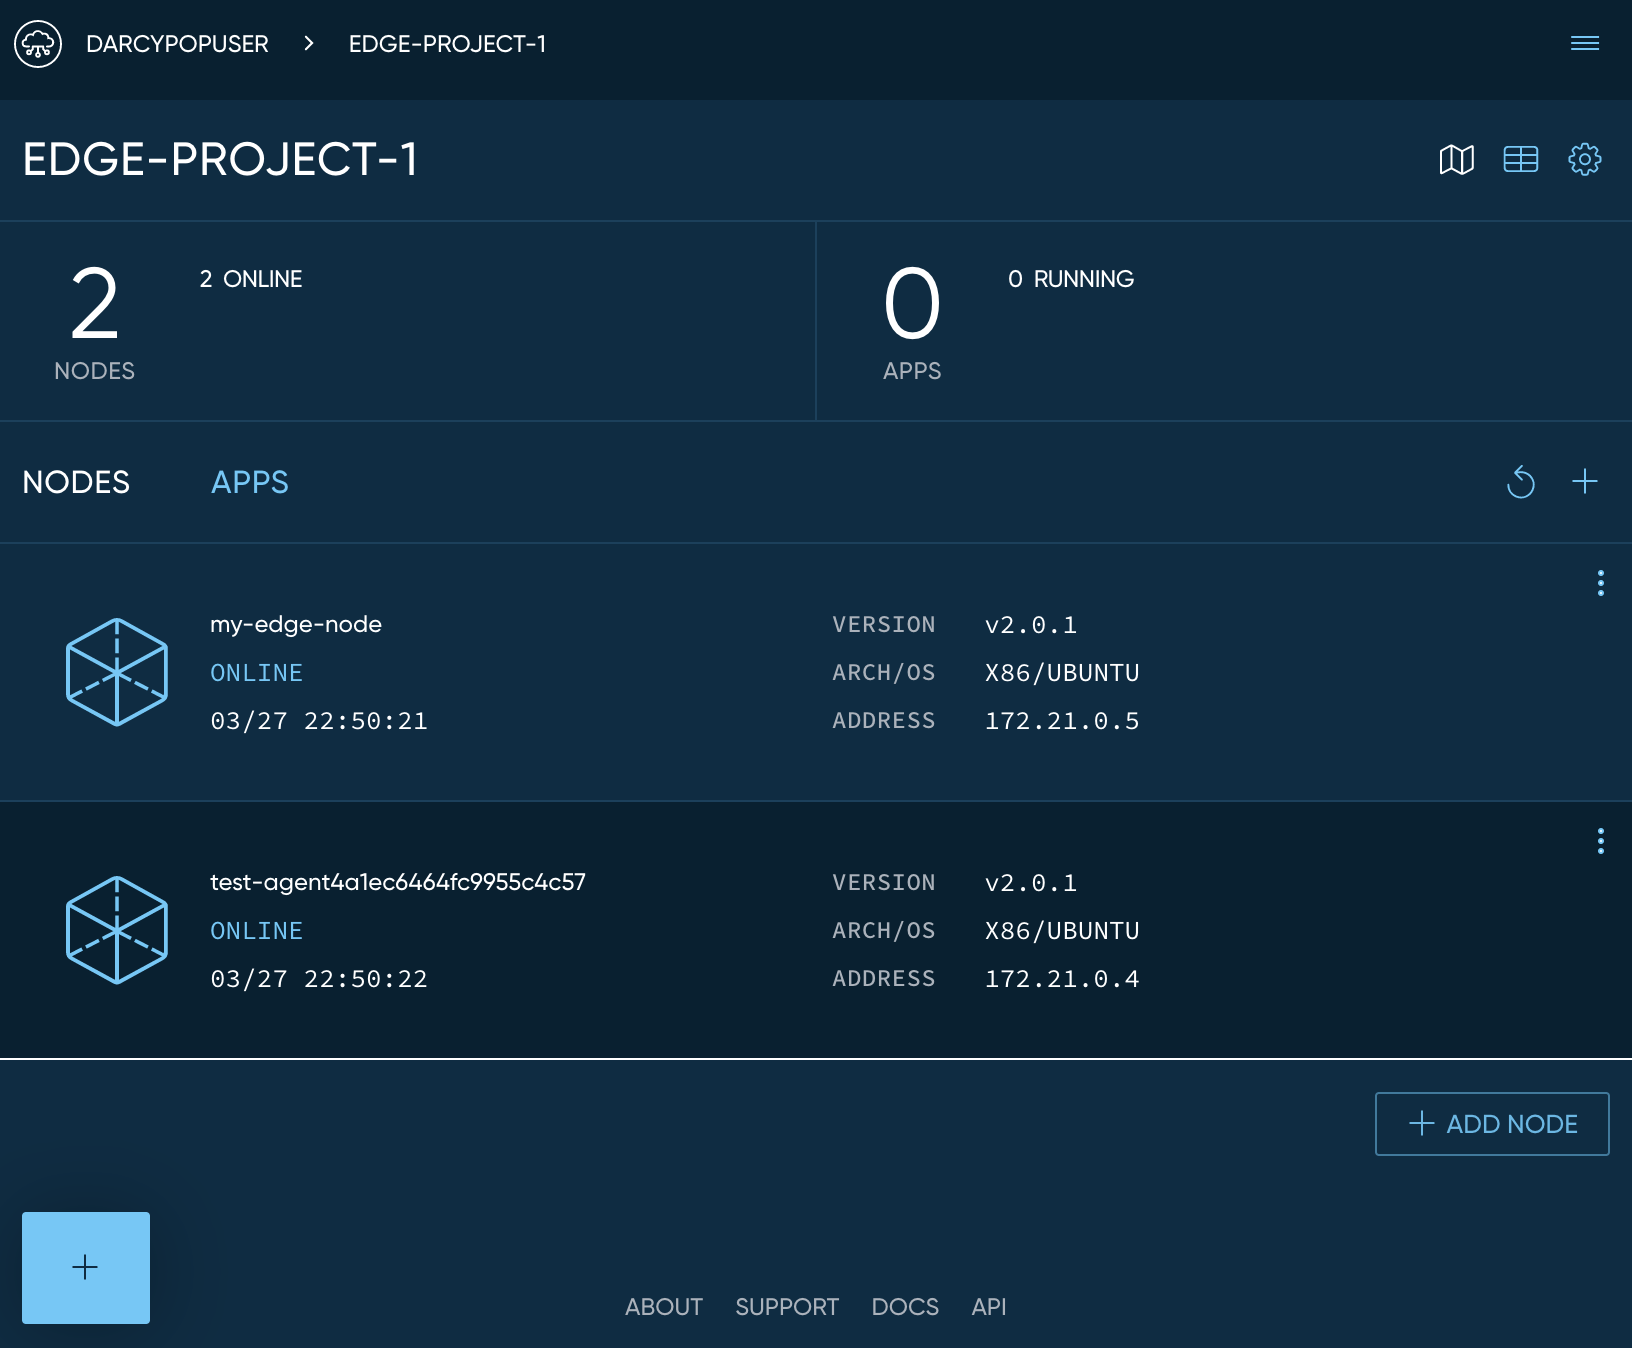
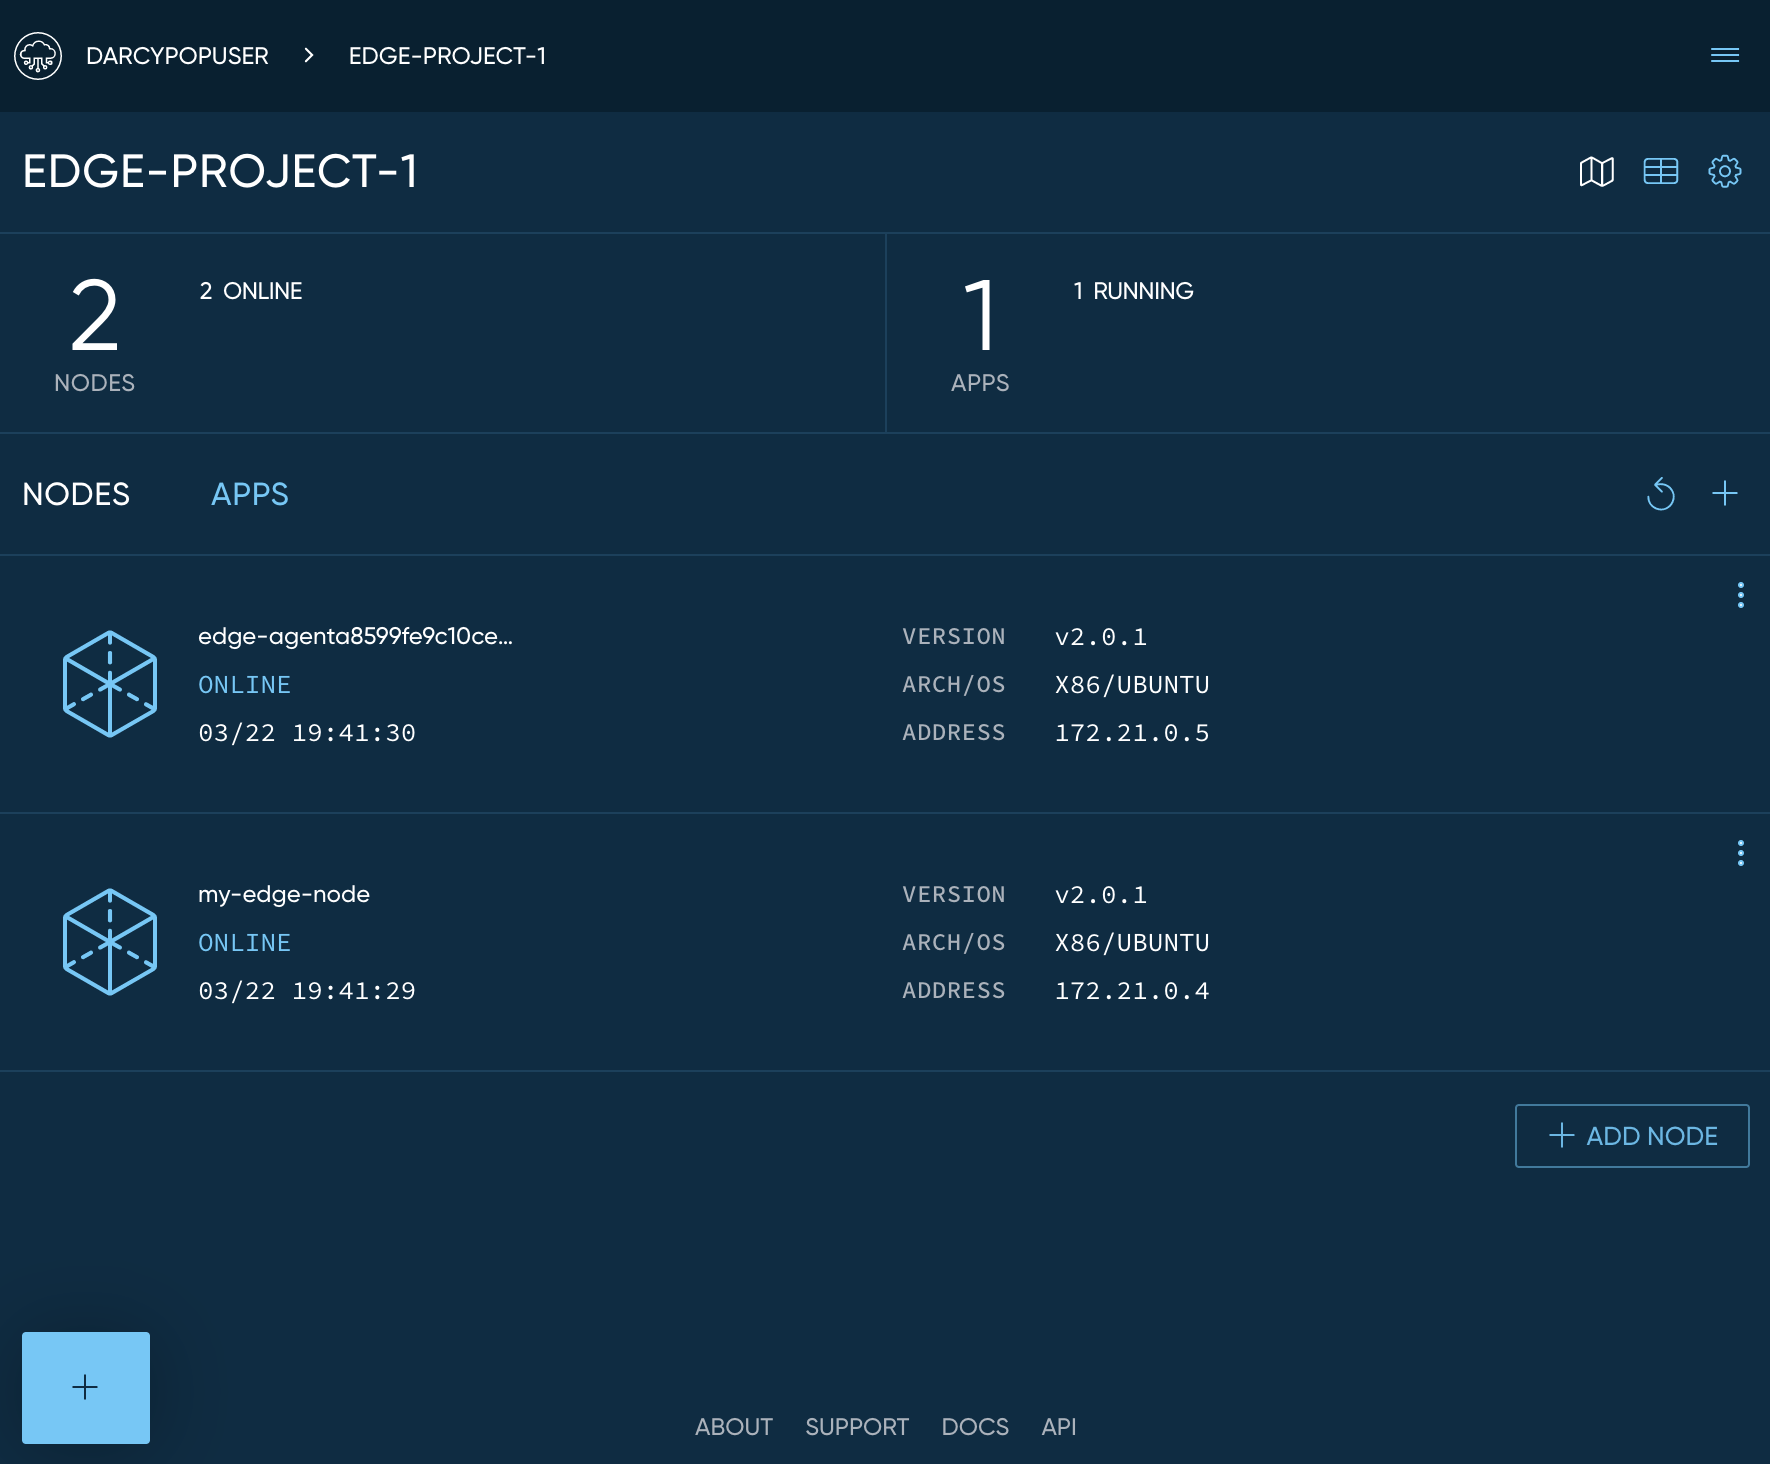
GitBook: [#48] Add an edge node with user defined node name

diff --git a/darcy-cloud/get-started-ec/get-started-add-node.md b/darcy-cloud/get-started-ec/get-started-add-node.md
@@ -26,9 +26,13 @@ If you do not have any of the above hardware, you can create a VM and run the no
 
 Log into **Darcy Cloud** and select the project to which you want to add the node.&#x20;
 
+![](../../.gitbook/assets/add-node.png)
+
 ![](../../.gitbook/assets/2done.png)
 
 Click the `+ ADD NODE` button located in the panel on the left of the view. This will bring up a modal dialog which shows the one line command that must be run on your host for it to become a node in your edge project.
+
+![](../../.gitbook/assets/darcy-install-script.png)
 
 ![](../../.gitbook/assets/add-node-install-script.png)
 
@@ -38,27 +42,45 @@ Click the `COPY` button to copy the install command to your clipboard.
 
 SSH onto your host (or log in via the console) with a user that is in the sudo group.
 
+![](../../.gitbook/assets/node1-installscript.png)
+
 ![](../../.gitbook/assets/1-node-script.png)
 
 Paste the command line that you copied in step 2 into your terminal. Hit enter. The entire install process can take up to a few minutes (depending on the spec of your node, your internet connection speed and other dependencies).&#x20;
+
+![](../../.gitbook/assets/node1-installed.png)
 
 ![](../../.gitbook/assets/1-node-installed.png)
 
 If everything works you should see output similar to that above.
 
+![](../../.gitbook/assets/1st-node-added.png)
+
 ![](<../../.gitbook/assets/1-node-added (1).png>)
 
 If you would like to use your own name for the node use the variable `NODE_NAME="your-choice-of-name"` in the node install script. SSH onto your host (or log in via the console) with a user that is in the sudo group.
+
+If you would like to use your own name for the node use the variable `NODE_NAME="your-choice-of-name"` in the node install script. SSH onto your host (or log in via the console) with a user that is in the sudo group.
+
+![](../../.gitbook/assets/node2-installscript.png)
 
 ![](<../../.gitbook/assets/Screen Shot 2022-03-31 at 12.13.57 PM.png>)
 
 Paste the command line that you copied in step 2 into your terminal. Hit enter. The entire install process can take up to a few minutes (depending on the spec of your node, your internet connection speed and other dependencies).&#x20;
 
+Paste the command line that you copied in step 2 into your terminal. Hit enter. The entire install process can take up to a few minutes (depending on the spec of your node, your internet connection speed and other dependencies).&#x20;
+
+![](../../.gitbook/assets/node2-installed.png)
+
 ![](../../.gitbook/assets/2-node-installed-script.png)
 
 If everything works you should see output similar to that above.
 
+If everything works you should see output similar to that above.
+
 ![](../../.gitbook/assets/2-node-added.png)
+
+![](<../../.gitbook/assets/2-node-added (1).png>)
 
 {% hint style="warning" %}
 If you get errors, check the output or you can view the install log in `/tmp/ewc_logs.txt` for more clues as to the error. You could also try running `sudo apt update`.

diff --git a/SUMMARY.md b/SUMMARY.md
@@ -5,7 +5,7 @@
 ## Darcy AI SDK
 
 * [What is Darcy AI?](darcy-ai-sdk/what-is-darcy-ai.md)
-* [Getting started with Darcy AI SDK](darcy-ai-sdk/getting-started-with-darcy-ai-sdk.md)
+* [Getting started with Darcy AI SDK](darcy-ai-sdk/page-2.md)
 
 ## Darcy Cloud
 
